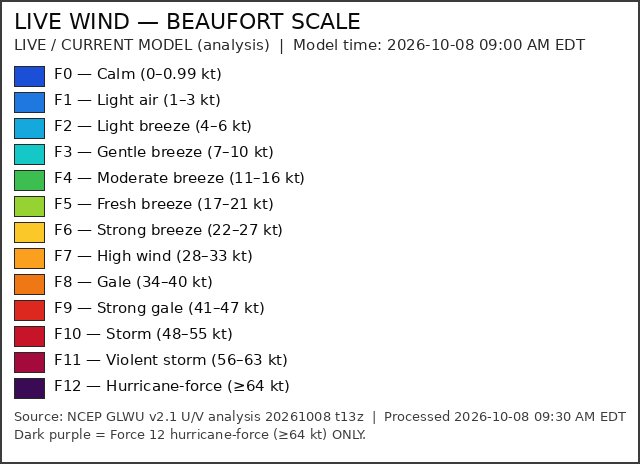
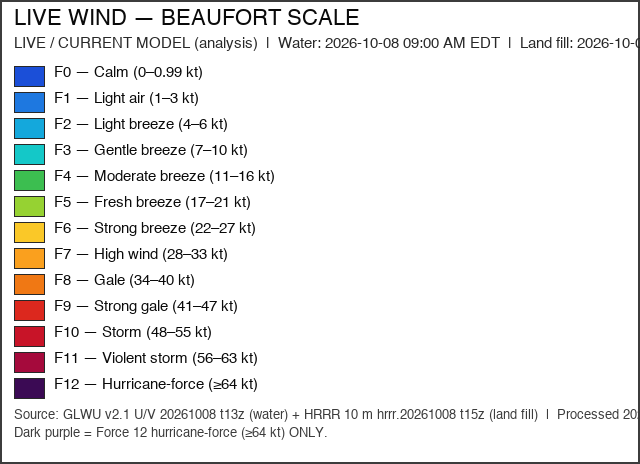
Expand Live Wind to full basin: GLWU over water + HRRR 10m land fill (same footprint as Live Leaf Color)

diff --git a/scripts/build_wind.py b/scripts/build_wind.py
@@ -1,10 +1,19 @@
 """Pipeline F — LIVE WIND (independent).
 
 NCEP GLWU GRIB2 UGRD/VGRD surface analysis (same operational files as the
-wave product, wind fields only) -> validate -> speed = sqrt(U^2+V^2) ->
-Beaufort Force 0-12 -> blue->...->red->dark-purple(F12) gradient with
-tiny movement-direction arrows rendered INTO the raster -> transparent PNG
-(shared GSHHG shoreline mask) -> metadata -> KML.
+wave product, wind fields only) OVER WATER + NOAA/NCEP HRRR 3 km 10 m
+UGRD/VGRD analysis as the land/background fill -> validate ->
+speed = sqrt(U^2+V^2) -> Beaufort Force 0-12 -> blue->...->red->
+dark-purple(F12) gradient with tiny movement-direction arrows rendered
+INTO the raster -> transparent PNG (FULL BASIN RECTANGLE lon -93..-73.5 /
+lat 40.5..49.5, the exact LIVE LEAF COLOR footprint; only missing data
+is transparent, no shoreline cut) -> metadata -> KML.
+
+GLWU has no valid values over land by design (off-water grid points file
+as missing), so land would stay transparent on GLWU alone. HRRR fills
+every GLWU gap (land + canvas edges beyond the GLWU mesh), giving the
+wind layer the same geographic coverage as the leaf layer. Where both
+are valid (open water) GLWU wins at its native ~2.5 km lake resolution.
 
 Direction convention (critical): GRIB U/V components point in the direction
 the air moves TOWARD (U eastward, V northward), unlike the meteorological
@@ -33,12 +42,13 @@ from build_kml import (assert_no_vector_geometry, build_entry_kml, build_kml,
                        live_out_dirs, refresh_kml_base_url)
 from build_wave_height import cycle_source_id, newest_available_cycle
 from geospatial_utils import (RENDER_VERSION, REPO_ROOT, SITE_DIR,
-                              apply_shoreline_mask,
-                              base_metadata, download, draw_category_legend,
-                              fetch_buoy_obs, load_bounds,
-                              grib_stamp_to_det, now_det_str, promote_stage,
-                              read_state, save_png, source_token, stage_dir,
-                              utcnow_iso, write_metadata, write_state)
+                               base_metadata, bin_to_canvas, canvas_indices,
+                               bleed_rgb_into_transparent,
+                               download, draw_category_legend,
+                               fetch_buoy_obs, load_bounds,
+                               grib_stamp_to_det, now_det_str, promote_stage,
+                               read_state, save_png, source_token, stage_dir,
+                               utcnow_iso, write_metadata, write_state)
 
 PRODUCT = "wind"
 CONFIG = json.load(open(os.path.join(REPO_ROOT, "config", f"{PRODUCT}.json")))
@@ -54,6 +64,14 @@ BUOY_POS = {  # NDBC (lon, lat) — QC reference only
     "45012": (-77.383, 43.619),
     "45005": (-82.398, 41.677),
 }
+
+# Full-basin render generation: bump to force one redeploy of the expanded
+# (GLWU+HRRR, no shoreline cut) raster even when the GLWU cycle is unchanged.
+# Afterwards the source id tracks both model cycles.
+RENDER_TAG = "fullbasin-g1"
+
+HRRR_MSGS = [("UGRD", "10 m above ground"), ("VGRD", "10 m above ground")]
+CANVAS_ARROW_STEP_PX = 45  # canvas-space sampling for land+water arrows
 
 
 def _rgb(h):
@@ -154,6 +172,45 @@ def draw_arrows(rgba, uu, vv, valid_src, rows, cols, bounds, step):
     return paint_arrows(rgba, arrow_points(uu, vv, valid_src, rows, cols, step))
 
 
+def arrow_points_canvas(uu_canvas, vv_canvas, step_px):
+    """Sample (row, col, u, v) movement vectors on a uniform canvas lattice.
+
+    Full-basin coverage needs arrows over land too, so sampling happens in
+    canvas space on the combined (GLWU-over-water + HRRR fill) UV field
+    instead of on either source grid.
+    """
+    pts = []
+    H, W = np.shape(uu_canvas)[:2]
+    for r in range(0, H, step_px):
+        for c in range(0, W, step_px):
+            u, v = float(uu_canvas[r, c]), float(vv_canvas[r, c])
+            if not (math.isfinite(u) and math.isfinite(v)):
+                continue
+            if math.hypot(u, v) < 0.5:
+                continue  # calm: no arrow
+            pts.append((r, c, u, v))
+    return pts
+
+
+def fetch_hrrr_uv():
+    """Latest HRRR 10 m U/V analysis binned helpers.
+
+    Returns (u_vals, v_vals, lats, lons, dd, cc, data_date, data_time)
+    on the native HRRR grid (1-D raveled values + lat/lon). Raises on any
+    fetch/decode failure (caller keeps the previous raster via exit 2).
+    """
+    import hrrr
+    base, dd, cc = hrrr.latest_cycle()
+    raw_hrrr = os.path.join(RAW_DIR, "hrrr_wind_current.grib2")
+    hrrr.fetch_messages(base, raw_hrrr, HRRR_MSGS)
+    got = hrrr.read_messages(raw_hrrr, {"UGRD": 1, "VGRD": 1})
+    (u_vals, u_lats, u_lons, u_date, u_time) = got["UGRD"]
+    (v_vals, _v_lats, _v_lons, _v_date, _v_time) = got["VGRD"]
+    return (np.asarray(u_vals, dtype=float), np.asarray(v_vals, dtype=float),
+            np.asarray(u_lats, dtype=float), np.asarray(u_lons, dtype=float),
+            dd, cc, u_date, u_time)
+
+
 def main():
     try:
         return run()
@@ -174,7 +231,17 @@ def run():
         print(f"[{PRODUCT}] NO CYCLE AVAILABLE (keeping previous).")
         return 2
     url, datestr, cycle, stamp = pick
-    source_id = cycle_source_id(stamp)
+    # Combined source id: the raster now depends on BOTH cycles (GLWU over
+    # water + HRRR land fill), so a roll of either must rebuild. The
+    # RENDER_TAG forces one redeploy of the expanded full-basin raster.
+    try:
+        import hrrr as _hrrr_probe
+        _hbase, _hdd, _hcc = _hrrr_probe.latest_cycle()
+        hrrr_tag = f"hrrr-{_hdd}-t{_hcc}z"
+    except Exception as e:
+        print(f"[{PRODUCT}] HRRR PROBE FAILED (keeping previous): {str(e)[:140]}")
+        return 2
+    source_id = f"{cycle_source_id(stamp)}+{hrrr_tag}-{RENDER_TAG}"
     prev = read_state(PRODUCT)
     if prev.get("source_id") == source_id \
             and prev.get("render_version") == RENDER_VERSION \
@@ -215,9 +282,19 @@ def _build(got, used_url, datestr, cycle, raw_path):
 
     u_ms, v_ms, lats, lons, gnx, gny, data_date, data_time = \
         extract_uv_analysis(raw_path)
-    # Source-aware gate (same rule as wave height): the GRIB analysis stamp
-    # controls regeneration, never the workflow run time.
-    source_id = f"glwu-{data_date}-{data_time}Z"
+    # HRRR land/background fill (full-basin coverage). Required: without it
+    # land has no wind data (GLWU off-water points file as missing), so a
+    # failed HRRR fetch keeps the previous raster instead of regressing.
+    try:
+        (hrrr_u, hrrr_v, hlats, hlons,
+         hrrr_dd, hrrr_cc, hrrr_date, hrrr_time) = fetch_hrrr_uv()
+    except Exception as e:
+        print(f"[{PRODUCT}] HRRR FILL FAILED (keeping previous): {e}")
+        return 2
+    # Source-aware gate (both model stamps control regeneration, never the
+    # workflow run time) + one-time full-basin render tag.
+    source_id = (f"glwu-{data_date}-{data_time}Z"
+                 f"+hrrr-{hrrr_dd}-t{hrrr_cc}z-{RENDER_TAG}")
     prev = read_state(PRODUCT)
     if prev.get("source_id") == source_id \
             and prev.get("render_version") == RENDER_VERSION \
@@ -263,39 +340,86 @@ def _build(got, used_url, datestr, cycle, raw_path):
 
     # force field: mean per canvas pixel (forces are stepwise constant),
     # splat-filled like the wave layer (2.5 km source vs ~0.85 km pixels)
-    from geospatial_utils import bin_to_canvas
     ffield, _cnt = bin_to_canvas(rows, cols, forces.ravel(), inside & valid,
                                  (H, W), splat_radius=2)
+    # GLWU UV on the canvas grid (for the combined arrow field below)
+    gu_canvas, _ = bin_to_canvas(rows, cols, np.asarray(u_ms).ravel(),
+                                 inside & valid, (H, W), splat_radius=2)
+    gv_canvas, _ = bin_to_canvas(rows, cols, np.asarray(v_ms).ravel(),
+                                 inside & valid, (H, W), splat_radius=2)
+    n_glwu_canvas = int(np.isfinite(ffield).sum())
+    print(f"[{PRODUCT}] GLWU canvas cells: {n_glwu_canvas}")
 
-    # UV on source grid (for arrows): reshape to grid form
-    ny, nx = gny, gnx
-    if ny * nx != u_ms.size:
-        raise ValueError(f"UV grid shape {nx}x{ny} != {u_ms.size} points")
-    uu = np.where(valid, u_ms, np.nan).reshape(ny, nx)
-    vv = np.where(valid, v_ms, np.nan).reshape(ny, nx)
-    okg = valid.reshape(ny, nx)
-    rgrid = rows.reshape(ny, nx)
-    cgrid = cols.reshape(ny, nx)
+    # HRRR 10 m fill binned onto the same canvas (full CONUS coverage:
+    # land + water + canvas edges beyond the GLWU mesh)
+    hrrr_time_utc = grib_stamp_to_det(hrrr_date, hrrr_time)
+    h_lons = ((np.asarray(hlons).ravel() + 180) % 360) - 180
+    h_lats = np.asarray(hlats).ravel()
+    h_u = np.asarray(hrrr_u).ravel()
+    h_v = np.asarray(hrrr_v).ravel()
+    h_ok_src = (np.isfinite(h_u) & np.isfinite(h_v)
+                & (np.abs(h_u) < 75) & (np.abs(h_v) < 75))
+    h_rows, h_cols, _hv = canvas_indices(h_lats, h_lons, bounds)
+    h_inside = (np.isfinite(h_lats) & np.isfinite(h_lons)
+                & (h_lats >= lat_min) & (h_lats <= lat_max)
+                & (h_lons >= lon_min) & (h_lons <= lon_max))
+    h_spd = np.hypot(np.where(h_ok_src, h_u, np.nan),
+                     np.where(h_ok_src, h_v, np.nan))
+    h_kt = h_spd * MS_TO_KT
+    h_forces = np.full(h_kt.shape, np.nan)
+    h_forces[h_ok_src] = fvec(h_kt[h_ok_src])
+    h_ffield, _hcnt = bin_to_canvas(h_rows, h_cols, h_forces,
+                                    h_inside & h_ok_src, (H, W),
+                                    splat_radius=2)
+    hu_canvas, _ = bin_to_canvas(h_rows, h_cols, h_u,
+                                 h_inside & h_ok_src, (H, W), splat_radius=2)
+    hv_canvas, _ = bin_to_canvas(h_rows, h_cols, h_v,
+                                 h_inside & h_ok_src, (H, W), splat_radius=2)
+    n_hrrr_canvas = int(np.isfinite(h_ffield).sum())
+    print(f"[{PRODUCT}] HRRR {hrrr_dd} t{hrrr_cc}z canvas cells: {n_hrrr_canvas}")
+    if n_hrrr_canvas < 50_000:
+        print(f"[{PRODUCT}] VALIDATION FAILED: too few HRRR fill cells. "
+              f"Keeping previous.")
+        return 2
+    hrrr_max_kt = float(np.nanmax(h_kt[h_ok_src])) if int(h_ok_src.sum()) else 0.0
+
+    # Composite (same Beaufort colors, wider footprint): GLWU wins wherever
+    # it is valid (open water at lake resolution); HRRR fills everything
+    # else (land + GLWU gaps + canvas edges). Same leaf-color footprint.
+    glwu_ok = np.isfinite(ffield)
+    field = np.where(glwu_ok, ffield, h_ffield)
+    comb_u = np.where(glwu_ok, gu_canvas, hu_canvas)
+    comb_v = np.where(glwu_ok, gv_canvas, hv_canvas)
+    n_combined = int(np.isfinite(field).sum())
+    n_fill = int((~glwu_ok & np.isfinite(field)).sum())
+    print(f"[{PRODUCT}] combined canvas cells: {n_combined} "
+          f"(GLWU {n_glwu_canvas} + HRRR fill {n_fill})")
+    if n_combined < 50_000:
+        print(f"[{PRODUCT}] VALIDATION FAILED: too few combined cells. "
+              f"Keeping previous.")
+        return 2
+    fmax_fill = int(np.nanmax(field))
 
     # colors: continuous LUT over force 0..12 (dark purple ONLY at force 12)
     lut = np.zeros((13, 3), dtype=np.uint8)
     for f in range(13):
         lut[f] = _rgb(FORCE_COLORS[f])
     rgba = np.zeros((H, W, 4), dtype=np.uint8)
-    ook = np.isfinite(ffield)
-    fi = np.clip(np.round(ffield[ook]).astype(int), 0, 12)
+    ook = np.isfinite(field)
+    fi = np.clip(np.round(field[ook]).astype(int), 0, 12)
     rgba[ook, 0:3] = lut[fi]
     rgba[ook, 3] = bounds["overlay_alpha"]
 
-    rgba, n_arrows = draw_arrows(rgba, uu, vv,
-                                 okg & inside.reshape(ny, nx),
-                                 rgrid, cgrid, bounds,
-                                 CONFIG["arrow_subsample"])
+    rgba, n_arrows = paint_arrows(
+        rgba, arrow_points_canvas(comb_u, comb_v, CANVAS_ARROW_STEP_PX))
     print(f"[{PRODUCT}] arrows drawn: {n_arrows}")
     if n_arrows < 50:
         print(f"[{PRODUCT}] VALIDATION FAILED: too few arrows. Keeping previous.")
         return 2
-    rgba = apply_shoreline_mask(rgba)  # one shared GSHHG shoreline for all
+    # Full basin rectangle (atmospheric layer, like leaf footprint): only
+    # missing source data is transparent — no shoreline cut. RGB bleed keeps
+    # the anti-fringe contract for bilinear clients (Google Earth).
+    rgba = bleed_rgb_into_transparent(rgba)
     save_png(rgba, os.path.join(stage_prod, "current.png"))
 
 
@@ -305,30 +429,40 @@ def _build(got, used_url, datestr, cycle, raw_path):
         [(f, force_name(f), force_range_text(f)) for f, _, _, _ in BEAUFORT])
     scale_html = (f"WIND — BEAUFORT SCALE (colors follow force, dark purple = "
                   f"Force 12 only):<br/>{beaufort_rows}"
-                  f"Maximum this run: <b>{float(spd_kt[valid].max()):.0f} kt</b> "
-                  f"(Beaufort {fmax}). Arrows point where the air moves.")
+                  f"Maximum this run: <b>{max(float(spd_kt[valid].max()), hrrr_max_kt):.0f} kt</b> "
+                  f"(Beaufort {max(fmax, fmax_fill)}). Full basin coverage: "
+                  f"GLWU over water, HRRR 10 m fill over land. "
+                  f"Arrows point where the air moves.")
     lw, lh = draw_category_legend(
         os.path.join(stage_prod, "legend.png"), CONFIG["title"],
-        f"{CONFIG['freshness_label']}  |  Model time: {data_time_utc}",
+        f"{CONFIG['freshness_label']}  |  Water: {data_time_utc}  |  "
+        f"Land fill: {hrrr_time_utc}",
         [(FORCE_COLORS[f], f"F{f} — {force_name(f)} ({force_range_text(f)})")
          for f in range(13)],
-        f"Source: NCEP GLWU v2.1 U/V analysis {datestr} t{cycle}z  |  "
+        f"Source: GLWU v2.1 U/V {datestr} t{cycle}z (water) + HRRR 10 m "
+        f"{hrrr_dd} t{hrrr_cc}z (land fill)  |  "
         f"Processed {now_det_str()}",
         note="Dark purple = Force 12 hurricane-force (≥64 kt) ONLY.")
 
     meta = base_metadata(
         PRODUCT, CONFIG["title"], CONFIG["freshness_label"],
         CONFIG["source_name"], used_url, CONFIG["variable"],
-        data_time_utc=data_time_utc,
+        data_time_utc=f"GLWU {data_time_utc} (water); HRRR {hrrr_time_utc} "
+                      f"(land fill)",
         source_last_modified_utc=got.get("http_last_modified") or "n/a (NOMADS)",
         units="kt + Beaufort Force 0-12 (display); source m/s",
-        source_resolution="~2.5 km NCEP GLWU Lambert grid (581x361)",
+        source_resolution=("~2.5 km NCEP GLWU Lambert grid (581x361) over "
+                           "water + ~3 km NCEP HRRR CONUS grid as land fill"),
         color_min=0, color_max=12, color_units="Beaufort Force",
-        missing_data_treatment=("GRIB2 missing value 9999 and off-water grid "
-                                "points rendered fully transparent; never zero-filled."))
+        missing_data_treatment=("full basin rectangle lon -93..-73.5 / lat "
+                                "40.5..49.5 (same footprint as Live Leaf "
+                                "Color): GLWU over water, HRRR 10 m wind "
+                                "fills land + GLWU gaps + canvas edges; "
+                                "transparent only where both sources lack "
+                                "data; never zero-filled."))
     meta["legend_size"] = [lw, lh]
     meta["legend_scale_html"] = scale_html
-    meta["model_cycle"] = f"{datestr} t{cycle}z"
+    meta["model_cycle"] = f"{datestr} t{cycle}z + {hrrr_dd} t{hrrr_cc}z"
     meta["source_id"] = source_id
     meta["source_version"] = source_token(source_id)
     meta["beaufort_table"] = [
@@ -336,19 +470,28 @@ def _build(got, used_url, datestr, cycle, raw_path):
          "color": FORCE_COLORS[f]} for f in range(13)]
     meta["methodology"] = (
         "Wind speed = sqrt(U^2+V^2) from GLWU UGRD/VGRD surface analysis "
-        "(m/s, direction of motion), x1.94384 -> knots, mapped to WMO Beaufort "
-        "Force 0-12 with unmodified thresholds. Arrows point along the (U,V) "
-        "movement vector (no FROM->TOWARD reversal needed for GRIB components); "
-        "calm (<0.5 m/s) gets no arrow. Overlay alpha cut by the shared GSHHG "
-        "shoreline mask.")
+        "over water (m/s, direction of motion) + HRRR UGRD/VGRD 10 m "
+        "analysis as the land/background fill (same formula), x1.94384 -> "
+        "knots, mapped to WMO Beaufort Force 0-12 with unmodified "
+        "thresholds; GLWU wins wherever valid, HRRR fills land + GLWU "
+        "gaps + canvas edges. Arrows point along the (U,V) movement "
+        "vector (no FROM->TOWARD reversal needed for GRIB components); "
+        "calm (<0.5 m/s) gets no arrow. Full basin rectangle "
+        "(lon -93..-73.5, lat 40.5..49.5, the Live Leaf Color footprint): "
+        "no shoreline cut; edge RGB bled into transparent pixels "
+        "(anti-fringe for bilinear clients).")
     meta["stats"] = {
-        "valid_cells": n_valid,
+        "valid_cells": n_combined,
+        "glwu_canvas_cells": n_glwu_canvas,
+        "hrrr_fill_cells": n_fill,
+        "hrrr_cycle": f"{hrrr_dd} t{hrrr_cc}z",
         "max_kt": round(float(spd_kt[valid].max()), 1),
         "max_beaufort": fmax,
+        "max_beaufort_combined": fmax_fill,
         "arrows_drawn": n_arrows,
     }
 
-    field = ffield  # for buoy QC sampling below
+    field = field  # combined GLWU+HRRR force grid for buoy QC sampling below
     # ---- buoy QC: WSPD (reference only) ----
     qc = fetch_buoy_obs(CONFIG["buoys"])
     for bid, pos in BUOY_POS.items():

diff --git a/scripts/validate_outputs.py b/scripts/validate_outputs.py
@@ -213,7 +213,7 @@ def main():
                                    "aurora", "visibility", "humidity",
                                    "light_pollution",
                                    "air_quality", "condensation", "fog",
-                                   "dew_point"):
+                                   "dew_point", "wind"):
                     # basin-rectangle layers (user requirement): full
                     # lon -93..-73.5 / lat 40.5..49.5 canvas incl. land.
                     # (Leaf/snow stay land-cut: leaves and ground snow

diff --git a/scripts/selftest.py b/scripts/selftest.py
@@ -135,7 +135,7 @@ def main():
             _bad = ((a[:, :, 3] > 0) & (mask > 250 / 255)).sum() == 0
         elif p in ("cloud_cover", "surface_pressure", "uv_index",
                    "air_temperature", "solar_radiation", "precipitation",
-                   "aurora"):
+                   "aurora", "wind"):
             # basin-rectangle layers: land coverage is by design.
             _bad = True
         elif p == "surface_currents":
